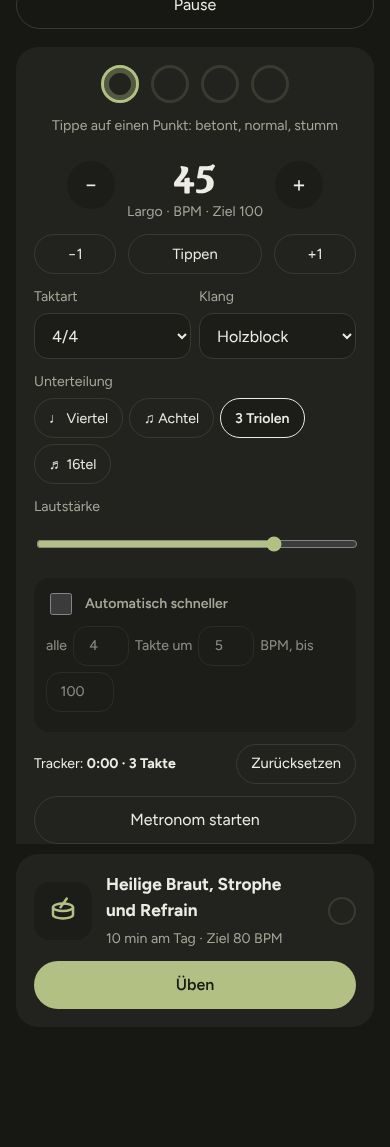
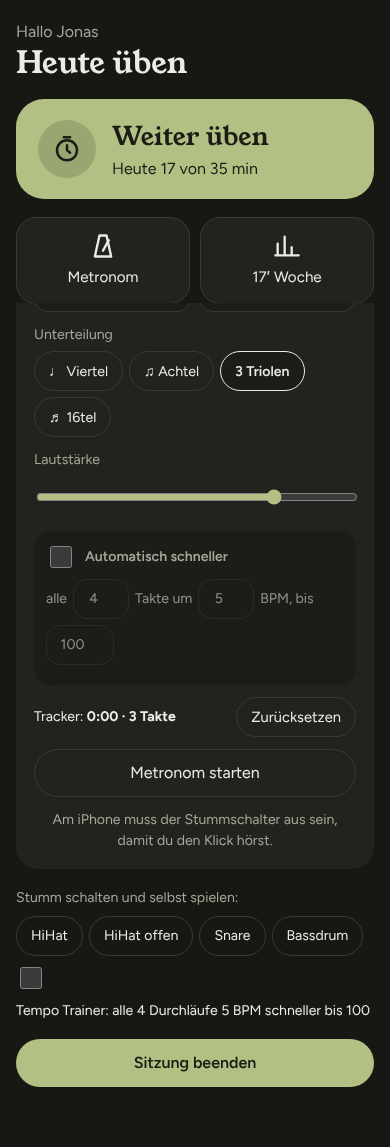
Übungsansicht: kleine Stoppuhr oben rechts, Metronom direkt unter dem Beat. Hausaufgaben per Ziehen sortieren
Claude-Session: https://claude.ai/code/session_01A3bZV3jynFTyqUVRK9pefN

diff --git a/public/index.html b/public/index.html
@@ -129,6 +129,12 @@ textarea{min-height:80px;resize:vertical}
 input[type=range]{accent-color:var(--ring);width:100%;min-height:32px}
 .lib-sub{border-top:1px solid var(--line);padding:10px 0 0;margin-top:10px}
 .lib-sub>summary{cursor:pointer}
+.clock-mini{display:flex;align-items:center;gap:8px;padding:4px 12px 4px 4px;border-radius:999px;border:1px solid var(--line);background:var(--card);color:var(--ink);font:inherit;cursor:pointer;min-height:48px}
+.clock-mini b{font-size:1.05rem;font-variant-numeric:tabular-nums}
+.clock-mini .clock-state{font-size:.8rem;color:var(--muted);margin-left:2px}
+.clock-mini.paused{border-color:var(--ring)}
+.drag{cursor:grab;touch-action:none;user-select:none;-webkit-user-select:none;padding:10px 8px;margin-left:-8px;color:var(--muted);font-size:1.1rem;line-height:1;letter-spacing:-3px;align-self:center}
+.item.dragging{opacity:.75;background:var(--track);border-radius:12px}
 .met-dot{width:38px;height:38px;border-radius:50%;border:3px solid var(--line);background:transparent;padding:0;cursor:pointer}
 .met-dot.acc2{border-color:var(--ring);box-shadow:inset 0 0 0 5px color-mix(in srgb,var(--ring) 35%,transparent)}
 .met-dot.acc0{border-style:dashed;opacity:.5}
@@ -188,8 +194,8 @@ details.card summary{cursor:pointer;font-family:var(--display);font-size:1.08rem
 </head>
 <body>
 <div id="app"><div class="wrap"><p class="muted">Lädt …</p></div></div>
-<script src="notation.js?v=37"></script>
-<script src="guitar.js?v=37"></script>
+<script src="notation.js?v=39"></script>
+<script src="guitar.js?v=39"></script>
 <script>
 'use strict';
 // ---------- Grundlagen ----------
@@ -508,7 +514,7 @@ function studentFileView() {
     <section class="card col">${cancelButtons(st.id)}${(f.cancellations || []).length ? `<details><summary class="small muted">Absagen (${f.cancellations.length})</summary><div class="list">${f.cancellations.map((c) => `<div class="item"><span class="t">${esc(fmtDate(c.date))}</span><span class="small muted">${CANCEL[c.kind] || c.kind}</span></div>`).join('')}</div></details>` : ''}</section>
     <section class="card"><h3>Übezeit pro Woche</h3>${weeksCircles(f.sessions)}</section>
     <div class="grid2">
-      <section class="card"><h3>Offene Hausaufgaben</h3><div class="list">${open.length ? open.map((a) => `<div class="item" style="flex-wrap:wrap"><span class="t"><button class="link" data-act="asgDetail" data-id="${a.id}"><b>${esc(a.title || a.free_text)}</b></button>${a.target_bpm ? ' <span class="muted small">Ziel ' + a.target_bpm + '</span>' : ''}<br><span class="muted small">${practicedFor(a, f.sessions)}</span><br>${assignBadges(a)}</span>${a.url ? `<a class="btn small" href="${esc(a.url)}" target="_blank" rel="noopener">${linkLabel(a)}</a>` : ''}<button class="btn small" data-act="addLink" data-id="${a.id}">${a.url ? 'Link ändern' : 'Link hinzufügen'}</button>
+      <section class="card"><h3>Offene Hausaufgaben</h3><div class="list" data-sort="asg">${open.length ? open.map((a) => `<div class="item" style="flex-wrap:wrap" data-sort-id="${a.id}">${open.length > 1 ? DRAG : ''}<span class="t"><button class="link" data-act="asgDetail" data-id="${a.id}"><b>${esc(a.title || a.free_text)}</b></button>${a.target_bpm ? ' <span class="muted small">Ziel ' + a.target_bpm + '</span>' : ''}<br><span class="muted small">${practicedFor(a, f.sessions)}</span><br>${assignBadges(a)}</span>${a.url ? `<a class="btn small" href="${esc(a.url)}" target="_blank" rel="noopener">${linkLabel(a)}</a>` : ''}<button class="btn small" data-act="addLink" data-id="${a.id}">${a.url ? 'Link ändern' : 'Link hinzufügen'}</button>
         <div id="lk_${a.id}" class="row hidden" style="width:100%;flex-wrap:nowrap"><input id="lki_${a.id}" type="url" inputmode="url" placeholder="YouTube Link einfügen" style="flex:1"><button class="btn small primary" data-act="saveLink" data-id="${a.id}">Speichern</button></div></div>`).join('') : '<p class="muted">Keine.</p>'}</div></section>
       <section class="card"><h3>Ziele</h3><div class="list">${f.goals.length ? f.goals.map((g) => `<div class="item"><span class="t">${esc(g.title)}</span><span class="pill">${g.status === 'erreicht' ? 'erreicht' : 'offen'}</span></div>`).join('') : '<p class="muted">Noch keine Ziele.</p>'}</div></section>
     </div>
@@ -683,6 +689,30 @@ document.addEventListener('change', (ev) => {
   const tp = defTempo(e); if ($('#a_from')) $('#a_from').value = tp.start; if ($('#a_bpm')) $('#a_bpm').value = tp.target;
 });
 // Neue Hausaufgabe (noch Entwurf bis zum Speichern der Stunde): antippen, Tempo, Minuten, Text ändern, Noten ansehen
+// Hausaufgaben per Ziehen sortieren (Griff links, Maus und Touch)
+const DRAG = '<span class="drag" data-drag role="button" aria-label="Ziehen, um die Reihenfolge zu ändern" title="Ziehen zum Sortieren">⋮⋮</span>';
+document.addEventListener('pointerdown', (ev) => {
+  const h = ev.target.closest('[data-drag]'); if (!h) return;
+  const item = h.closest('[data-sort-id]'), list = item && item.parentElement; if (!list) return;
+  ev.preventDefault(); item.classList.add('dragging');
+  const before = [...list.querySelectorAll(':scope > [data-sort-id]')].map((x) => x.dataset.sortId);
+  const move = (e) => {
+    const sibs = [...list.querySelectorAll(':scope > [data-sort-id]')].filter((x) => x !== item);
+    const next = sibs.find((x) => { const b = x.getBoundingClientRect(); return e.clientY < b.top + b.height / 2; });
+    if (next) { if (item.nextElementSibling !== next) list.insertBefore(item, next); } else if (sibs.length && sibs[sibs.length - 1].nextElementSibling !== item) sibs[sibs.length - 1].after(item);
+  };
+  const up = async () => {
+    window.removeEventListener('pointermove', move); window.removeEventListener('pointerup', up); window.removeEventListener('pointercancel', up); item.classList.remove('dragging');
+    const ids = [...list.querySelectorAll(':scope > [data-sort-id]')].map((x) => x.dataset.sortId);
+    if (ids.join() === before.join() || !S.file) return;
+    try {
+      await api('/api/t/assignments/reorder', { student_id: S.file.student.id, ids });
+      const pos = Object.fromEntries(ids.map((x, i) => [x, i])); S.file.assignments.sort((x, y) => (pos[x.id] ?? -1) - (pos[y.id] ?? -1));
+      toast('Reihenfolge gespeichert');
+    } catch (e) { toast(e.message); render(); }
+  };
+  window.addEventListener('pointermove', move); window.addEventListener('pointerup', up); window.addEventListener('pointercancel', up);
+});
 function newAsgNotation(a) { const e = a.exercise_id && (S.exercises || []).find((x) => x.id === a.exercise_id); return DrumNotation.parse(a.notation || (e && e.notation)); }
 function newAsgRow(a, i) {
   const meta = [a.start_bpm || a.target_bpm ? (a.start_bpm || '?') + ' bis ' + (a.target_bpm || '?') + ' BPM' : '', a.minutes_per_day ? a.minutes_per_day + ' min' : ''].filter(Boolean).join(' · ');
@@ -710,7 +740,7 @@ function lessonView() {
     ${st.profile_note ? `<details class="card"><summary>Steckbrief</summary><p style="white-space:pre-line">${esc(st.profile_note)}</p></details>` : ''}
     <div class="lesson-grid">
       <div class="col" style="gap:16px">
-        <section class="card"><h3>Hausaufgaben</h3><div class="list">${open.length ? open.map((a) => { const on = L.close_assignments.includes(a.id); return `<div class="item"><span class="t"><button class="link" data-act="asgDetail" data-id="${a.id}"><b>${esc(a.title || a.free_text)}</b></button><br><span class="muted small">${practicedFor(a, f.sessions)}${a.target_bpm ? ' · Ziel ' + a.target_bpm : ''}</span><br>${assignBadges(a)}</span><button class="check ${on ? 'on' : ''}" data-act="toggleClose" data-id="${a.id}" aria-pressed="${on}" aria-label="Als erledigt markieren">${on ? '✓' : ''}</button></div>`; }).join('') : ''}${L.new_assignments.map((a, i) => newAsgRow(a, i)).join('')}${!open.length && !L.new_assignments.length ? '<p class="muted">Keine offenen Hausaufgaben.</p>' : ''}</div>
+        <section class="card"><h3>Hausaufgaben</h3><div class="list" data-sort="asg">${open.length ? open.map((a) => { const on = L.close_assignments.includes(a.id); return `<div class="item" data-sort-id="${a.id}">${open.length > 1 ? DRAG : ''}<span class="t"><button class="link" data-act="asgDetail" data-id="${a.id}"><b>${esc(a.title || a.free_text)}</b></button><br><span class="muted small">${practicedFor(a, f.sessions)}${a.target_bpm ? ' · Ziel ' + a.target_bpm : ''}</span><br>${assignBadges(a)}</span><button class="check ${on ? 'on' : ''}" data-act="toggleClose" data-id="${a.id}" aria-pressed="${on}" aria-label="Als erledigt markieren">${on ? '✓' : ''}</button></div>`; }).join('') : ''}${L.new_assignments.map((a, i) => newAsgRow(a, i)).join('')}${!open.length && !L.new_assignments.length ? '<p class="muted">Keine offenen Hausaufgaben.</p>' : ''}</div>
           <form id="assignForm" class="col">
             ${(S.exercises || []).some((e) => e.category === 'Aufwärmen') ? `<details id="warmBox" ${S.warmOpen ? 'open' : ''}><summary class="small muted">Aufwärmen mit einem Tipp</summary><div class="row" style="gap:6px;margin-top:6px">${S.exercises.filter((e) => e.category === 'Aufwärmen').map((e) => `<button type="button" class="chip" data-act="warmAdd" data-id="${e.id}">${esc(e.title)}</button>`).join('')}</div></details>` : ''}
             <div class="row" style="flex-wrap:nowrap;align-items:flex-end"><div class="field" style="flex:1"><label for="a_song">Song</label><input id="a_song" list="a_songs" placeholder="Song suchen" autocomplete="off"><datalist id="a_songs">${(S.songs ? S.songs.songs : []).map((x) => `<option value="${esc(x.title)}"></option>`).join('')}</datalist></div><div class="field" style="width:110px"><label for="a_ver">Version</label><input id="a_ver" list="a_vers" placeholder="Original"><datalist id="a_vers"><option value="Original"></option><option value="Easy"></option></datalist></div></div>
@@ -1133,7 +1163,7 @@ function practiceView() {
   const goal = (a && a.minutes_per_day) || 10;
   const el = runElapsed(r);
   return `<div class="wrap" style="max-width:560px;align-items:stretch">
-    <div class="row between"><button class="btn small" data-act="minimize">Zurück</button><span class="pill">Ziel ${goal} min</span></div>
+    <div class="row between" style="flex-wrap:nowrap"><button class="btn small" data-act="minimize">Zurück</button><button class="clock-mini ${r.runningSince ? '' : 'paused'}" id="clockRing" data-act="startStop" aria-label="${r.runningSince ? 'Stoppuhr pausieren' : 'Stoppuhr starten'}">${clockRing(el, goal)}</button></div>
     <div class="col" style="align-items:center;gap:8px;text-align:center"><h1>${esc(a ? (a.title || a.free_text) : 'Frei üben')}</h1>
       ${a && a.book_ref ? `<span class="muted">${esc(a.book_ref)}</span>` : ''}
       ${a && a.exercise_notes ? `<span class="muted small">${esc(a.exercise_notes)}</span>` : ''}
@@ -1142,13 +1172,12 @@ function practiceView() {
     ${a && Guitar.parse(a.notation) ? `${Guitar.viewHTML(Guitar.parse(a.notation), 'practiceGuitar')}
       <div class="row">${Guitar.parse(a.notation).strum.cells.some(Boolean) ? `<button class="btn" data-act="gtPlay" data-mode="strum" style="flex:1">${Guitar.isPlaying() ? 'Stopp' : 'Schlagmuster abspielen'}</button>` : ''}${Guitar.parse(a.notation).tab.notes.length ? `<button class="btn" data-act="gtPlay" data-mode="tab" style="flex:1">Tabs abspielen</button>` : ''}</div>` : ''}
     ${a && DrumNotation.parse(a.notation) ? `<div class="nt-staff" id="practiceStaff">${DrumNotation.render(DrumNotation.parse(a.notation), { cursor: true, label: 'Noten: ' + (a.title || '') })}</div>
-      <div class="row" style="flex-wrap:nowrap;gap:8px"><button class="btn" style="flex:1" data-act="beatPlay">${DrumNotation.isPlaying() ? 'Beat stoppen' : 'Beat im Metronom Tempo abspielen'}</button>${beatClickChip()}</div>
+      <div class="row" style="flex-wrap:nowrap;gap:8px"><button class="btn" style="flex:1" data-act="beatPlay">${DrumNotation.isPlaying() ? 'Beat stoppen' : 'Beat abspielen'}</button>${beatClickChip()}</div>
+      ${metronomeCard(a)}
       <div class="col" style="gap:8px"><span class="small muted">Stumm schalten und selbst spielen:</span>
         <div class="row" style="gap:6px">${DrumNotation.usedKeys(DrumNotation.parse(a.notation)).map((k) => `<button type="button" class="chip" data-act="beatMute" data-k="${k}" aria-pressed="${(S.beatMute || []).includes(k)}">${DrumNotation.ROWS.find((r) => r.k === k).n}</button>`).join('')}</div>
         <label class="row small" style="gap:8px;color:var(--ink)"><input type="checkbox" id="beatTrainer" style="width:22px;min-height:22px" ${S.beatTrainer ? 'checked' : ''}> Tempo Trainer: alle 4 Durchläufe 5 BPM schneller${a.target_bpm ? ' bis ' + a.target_bpm : ''}</label></div>` : ''}
-    <div id="clockRing" style="display:flex;justify-content:center">${clockRing(el, goal)}</div>
-    <button class="btn ${r.runningSince ? '' : 'primary'} block" data-act="startStop">${r.runningSince ? 'Pause' : el ? 'Weiter' : 'Stoppuhr starten'}</button>
-    ${metronomeCard(a)}
+    ${a && DrumNotation.parse(a.notation) ? '' : metronomeCard(a)}
     <button class="btn primary block" data-act="endPractice" ${el < 1000 ? 'disabled' : ''}>Sitzung beenden</button>
   </div>`;
 }
@@ -1235,15 +1264,17 @@ document.addEventListener('change', (ev) => {
 function metronomeView() {
   return `<div class="wrap" style="max-width:560px;align-items:stretch"><div class="row between"><button class="btn small" data-act="closeMetro">Zurück</button></div><h1>Metronom</h1>${metronomeCard(null)}</div>`;
 }
+// Kleine Stoppuhr oben rechts: Ring, Zeit, Ziel. Antippen pausiert oder startet.
 function clockRing(el, goal) {
-  const v = el / (goal * 60000);
-  return ring(v % 1 === 0 && v > 0 ? 1 : v % 1, 230, 12, v >= 1 ? 'var(--ring2)' : 'var(--ring)', 'Übezeit ' + clock(el), clock(el), v >= 1 ? 'Ziel geschafft' : 'von ' + goal + ' min');
+  const v = el / (goal * 60000), r = store.get('run', null), on = !!(r && r.runningSince);
+  return ring(v % 1 === 0 && v > 0 ? 1 : v % 1, 40, 5, v >= 1 ? 'var(--ring2)' : 'var(--ring)', 'Übezeit ' + clock(el)) +
+    `<span class="col" style="gap:0;align-items:flex-start"><b>${clock(el)}</b><span class="small muted">${v >= 1 ? 'Ziel geschafft' : 'von ' + goal + ' min'}</span></span><span class="clock-state" aria-hidden="true">${on ? '❚❚' : '▶'}</span>`;
 }
 function updateClock() {
   const r = store.get('run', null); const box = $('#clockRing');
   if (!r || !box) return;
   const a = S.data.assignments.find((x) => x.id === r.assignment_id);
-  box.innerHTML = clockRing(runElapsed(r), (a && a.minutes_per_day) || 10);
+  box.innerHTML = clockRing(runElapsed(r), (a && a.minutes_per_day) || 10); box.classList.toggle('paused', !r.runningSince);
   const end = document.querySelector('[data-act="endPractice"]'); if (end) end.disabled = runElapsed(r) < 1000;
 }
 // Metronom: Web Audio mit Vorausplanung, damit der Takt stabil bleibt
@@ -1407,7 +1438,7 @@ document.addEventListener('click', async (ev) => {
       case 'editExercise': { const e = S.exercises.find((x) => x.id === id); S.nt = { ex: DrumNotation.parse(e.notation) }; S.gt = { gx: Guitar.parse(e.notation) }; S.gtSel = null; openOverlay(() => exerciseForm(e)); break; }
       case 'addBeat': { const f = $('#exerciseForm'); S.exDraft = Object.fromEntries(new FormData(f)); S.exDraft.source_type = 'noten'; S.nt = { ex: DrumNotation.empty() }; openOverlay(() => exerciseForm(S.exDraft)); break; }
       case 'beatPlay': {
-        if (DrumNotation.isPlaying()) { DrumNotation.stop(); el.textContent = 'Beat im Metronom Tempo abspielen'; break; }
+        if (DrumNotation.isPlaying()) { DrumNotation.stop(); el.textContent = 'Beat abspielen'; break; }
         const r = store.get('run'); const a = S.data.assignments.find((x) => x.id === r.assignment_id);
         metStop(); const mb = document.querySelector('[data-act="metronome"]'); if (mb) mb.textContent = 'Metronom starten';
         playBeat(DrumNotation.parse(a.notation), $('#practiceStaff'), MET.bpm, { mute: S.beatMute || [], trainer: beatTrainerOpts(a), onTempo: (b) => setBpm(b) }); el.textContent = 'Beat stoppen'; break;
@@ -1563,7 +1594,7 @@ document.addEventListener('click', async (ev) => {
       case 'metSub': { const s = metSet(); s.sub = Number(el.dataset.v); saveMetSet(s); document.querySelectorAll('[data-act=metSub]').forEach((b) => b.setAttribute('aria-pressed', String(b === el))); break; }
       case 'trkReset': TRK.ms = 0; TRK.bars = 0; TRK.since = MET.playing || DrumNotation.isPlaying() ? performance.now() : 0; { const k = $('#trk'); if (k) k.textContent = trkText(); } break;
       case 'beatClick': { const s = metSet(); s.beatClick = !s.beatClick; saveMetSet(s); document.querySelectorAll('[data-act=beatClick]').forEach((b) => { b.setAttribute('aria-pressed', String(s.beatClick)); b.textContent = 'Metronom ' + (s.beatClick ? 'an' : 'aus'); }); break; }
-      case 'metronome': if (MET.playing) metStop(); else { DrumNotation.stop(); const bb = document.querySelector('[data-act="beatPlay"]'); if (bb) bb.textContent = 'Beat im Metronom Tempo abspielen'; metStart(); } el.textContent = MET.playing ? 'Metronom stoppen' : 'Metronom starten'; break;
+      case 'metronome': if (MET.playing) metStop(); else { DrumNotation.stop(); const bb = document.querySelector('[data-act="beatPlay"]'); if (bb) bb.textContent = 'Beat abspielen'; metStart(); } el.textContent = MET.playing ? 'Metronom stoppen' : 'Metronom starten'; break;
       case 'endPractice': { const r = store.get('run'); if (r.runningSince) { r.accumulated += Date.now() - r.runningSince; r.runningSince = null; store.set('run', r); } metStop(); clearInterval(tickTimer); S.feeling = null; openOverlay(finishForm); break; }
       case 'backToPractice': openOverlay(practiceView); tickTimer = setInterval(updateClock, 250); break;
       case 'feel': S.feeling = Number(el.dataset.v); document.querySelectorAll('[data-act="feel"]').forEach((b) => b.setAttribute('aria-pressed', String(b === el))); break;

diff --git a/worker/src/index.js b/worker/src/index.js
@@ -127,8 +127,8 @@ async function studentView(s, studentId, role) {
   const [assignments, sessions, goals, lessons, consent] = await Promise.all([
     s.all(`SELECT a.id, a.exercise_id, a.free_text, a.target_bpm, a.start_bpm, a.minutes_per_day, a.due_date, a.status, a.done_at, a.created_at,
              e.title, e.category, e.source_type, e.url, e.book_ref, e.notes AS exercise_notes, e.notation, c.student_done_at, x.song_id, x.version AS song_version
-           FROM assignments a LEFT JOIN exercises e ON e.id = a.exercise_id LEFT JOIN assignment_checks c ON c.assignment_id = a.id LEFT JOIN assignment_songs x ON x.assignment_id = a.id
-           WHERE a.student_id = ? AND (a.status = 'offen' OR a.done_at > ?) ORDER BY a.created_at DESC`, studentId, new Date(Date.now() - 21 * DAY).toISOString()),
+           FROM assignments a LEFT JOIN exercises e ON e.id = a.exercise_id LEFT JOIN assignment_checks c ON c.assignment_id = a.id LEFT JOIN assignment_songs x ON x.assignment_id = a.id LEFT JOIN assignment_order o ON o.assignment_id = a.id
+           WHERE a.student_id = ? AND (a.status = 'offen' OR a.done_at > ?) ORDER BY (o.sort IS NULL) DESC, o.sort, a.created_at DESC`, studentId, new Date(Date.now() - 21 * DAY).toISOString()),
     s.all(`SELECT id, client_id, assignment_id, exercise_id, started_at, local_date, seconds, bpm_reached, feeling, note
            FROM practice_sessions WHERE student_id = ? AND started_at > ? ORDER BY started_at DESC`, studentId, since),
     s.all('SELECT id, title, status, reached_at FROM goals WHERE student_id = ? ORDER BY created_at', studentId),
@@ -204,8 +204,8 @@ async function teacherStudent(s, id) {
   const [lessons, assignments, sessions, goals, access, consents] = await Promise.all([
     s.all('SELECT * FROM lessons WHERE student_id = ? ORDER BY date DESC', id),
     s.all(`SELECT a.*, e.title, e.category, e.source_type, e.url, e.book_ref, e.notation, e.archived AS ex_archived, c.student_done_at, x.song_id, x.version AS song_version FROM assignments a LEFT JOIN exercises e ON e.id = a.exercise_id
-           LEFT JOIN assignment_checks c ON c.assignment_id = a.id LEFT JOIN assignment_songs x ON x.assignment_id = a.id
-           WHERE a.student_id = ? ORDER BY a.created_at DESC LIMIT 200`, id),
+           LEFT JOIN assignment_checks c ON c.assignment_id = a.id LEFT JOIN assignment_songs x ON x.assignment_id = a.id LEFT JOIN assignment_order o ON o.assignment_id = a.id
+           WHERE a.student_id = ? ORDER BY (o.sort IS NULL) DESC, o.sort, a.created_at DESC LIMIT 200`, id),
     s.all('SELECT id, assignment_id, exercise_id, started_at, local_date, seconds, bpm_reached, feeling, note FROM practice_sessions WHERE student_id = ? ORDER BY started_at DESC LIMIT 400', id),
     s.all('SELECT * FROM goals WHERE student_id = ? ORDER BY created_at', id),
     s.all(`SELECT a.id, a.role, a.label, a.created_at, a.revoked_at,
@@ -259,6 +259,7 @@ function deleteStudentStatements(id) {
   return [
     ['DELETE FROM assignment_songs WHERE assignment_id IN (SELECT id FROM assignments WHERE student_id = ?)', [id]],
     ['DELETE FROM assignment_checks WHERE assignment_id IN (SELECT id FROM assignments WHERE student_id = ?)', [id]],
+    ['DELETE FROM assignment_order WHERE assignment_id IN (SELECT id FROM assignments WHERE student_id = ?)', [id]],
     ['DELETE FROM devices WHERE access_id IN (SELECT id FROM access WHERE student_id = ?)', [id]],
     ['DELETE FROM access WHERE student_id = ?', [id]],
     ['DELETE FROM consents WHERE student_id = ?', [id]],
@@ -754,6 +755,14 @@ async function route(env, req, path, body) {
         [aid, st.id, exId, title, int(body.target_bpm, 20, 400), int(body.start_bpm, 20, 400), int(body.minutes_per_day, 1, 240) || 10, isDate(body.due_date) ? body.due_date : null, 'offen', t]]);
       ops.push(logRow(who, 'create', 'assignments', aid, title)); await s.batch(ops); return { id: aid };
     }
+    case '/api/t/assignments/reorder': {
+      // Reihenfolge der offenen Hausaufgaben eines Schülers festlegen
+      const ids = (Array.isArray(body.ids) ? body.ids : []).slice(0, 100).map(String);
+      const own = new Set((await s.all('SELECT id FROM assignments WHERE student_id = ?', String(body.student_id || ''))).map((x) => x.id));
+      if (!ids.length || ids.some((x) => !own.has(x))) throw new HttpError(400, 'Hausaufgaben passen nicht zum Schüler.');
+      await s.batch(ids.map((x, i) => ['INSERT INTO assignment_order (assignment_id, sort) VALUES (?, ?) ON CONFLICT(assignment_id) DO UPDATE SET sort = excluded.sort', [x, i]]));
+      return { ok: true };
+    }
     case '/api/t/assignment/update': {
       // Hausaufgabe bearbeiten: Text, Tempo, Minuten; Noten nur bei eigener Hausaufgaben Übung (nicht Bibliothek)
       const a = await s.first('SELECT a.id, a.exercise_id, e.archived FROM assignments a LEFT JOIN exercises e ON e.id = a.exercise_id WHERE a.id = ?', String(body.id || ''));
@@ -773,6 +782,7 @@ async function route(env, req, path, body) {
       if (!a) throw new HttpError(404, 'Hausaufgabe nicht gefunden.');
       await s.batch([
         ['DELETE FROM assignment_checks WHERE assignment_id = ?', [a.id]],
+        ['DELETE FROM assignment_order WHERE assignment_id = ?', [a.id]],
         ['DELETE FROM assignment_songs WHERE assignment_id = ?', [a.id]],
         ['DELETE FROM assignments WHERE id = ?', [a.id]],
         logRow(who, 'delete', 'assignments', a.id, 'Hausaufgabe entfernt' + (a.free_text ? ': ' + a.free_text.slice(0, 60) : '')),

diff --git a/public/sw.js b/public/sw.js
@@ -1,6 +1,6 @@
 // Practice Hub Service Worker: App Dateien offline, API nie aus dem Cache
-const CACHE = 'ph-v37';
-const FILES = ['./', 'index.html', 'datenschutz.html', 'manifest.webmanifest', 'icon.svg', 'icon-180.png', 'icon-512.png', 'notation.js?v=37', 'guitar.js?v=37', 'fonts/young-serif.woff2', 'fonts/figtree.woff2', 'samples/bd.mp3?v=37', 'samples/sn.mp3?v=37', 'samples/t1.mp3?v=37', 'samples/t2.mp3?v=37', 'samples/ft.mp3?v=37', 'samples/cr.mp3?v=37', 'samples/hh.mp3?v=37', 'samples/ho.mp3?v=37', 'samples/rd.mp3?v=37'];
+const CACHE = 'ph-v39';
+const FILES = ['./', 'index.html', 'datenschutz.html', 'manifest.webmanifest', 'icon.svg', 'icon-180.png', 'icon-512.png', 'notation.js?v=39', 'guitar.js?v=39', 'fonts/young-serif.woff2', 'fonts/figtree.woff2', 'samples/bd.mp3?v=39', 'samples/sn.mp3?v=39', 'samples/t1.mp3?v=39', 'samples/t2.mp3?v=39', 'samples/ft.mp3?v=39', 'samples/cr.mp3?v=39', 'samples/hh.mp3?v=39', 'samples/ho.mp3?v=39', 'samples/rd.mp3?v=39'];
 self.addEventListener('install', (e) => { e.waitUntil(caches.open(CACHE).then((c) => c.addAll(FILES)).then(() => self.skipWaiting())); });
 self.addEventListener('activate', (e) => { e.waitUntil(caches.keys().then((ks) => Promise.all(ks.filter((k) => k !== CACHE).map((k) => caches.delete(k)))).then(() => self.clients.claim())); });
 self.addEventListener('fetch', (e) => {

diff --git a/worker/src/schema.js b/worker/src/schema.js
@@ -121,6 +121,11 @@ CREATE INDEX IF NOT EXISTS i_goals_student ON goals(student_id);
 CREATE INDEX IF NOT EXISTS i_attempts ON attempts(ip, at);
 
 -- Schüler Haken getrennt vom Lehrer Status (nur Oti schließt eine Hausaufgabe)
+-- Reihenfolge der Hausaufgaben, vom Lehrer per Ziehen festgelegt (neue ohne Eintrag stehen oben)
+CREATE TABLE IF NOT EXISTS assignment_order (
+  assignment_id TEXT PRIMARY KEY,
+  sort INTEGER NOT NULL
+);
 CREATE TABLE IF NOT EXISTS assignment_checks (
   assignment_id TEXT PRIMARY KEY,
   student_done_at TEXT NOT NULL
